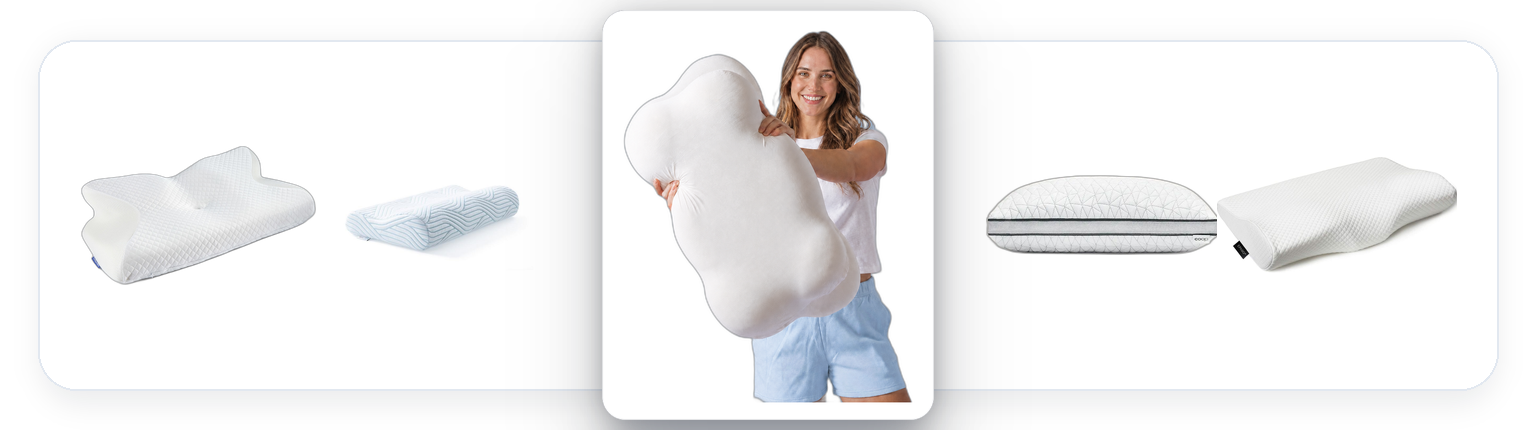
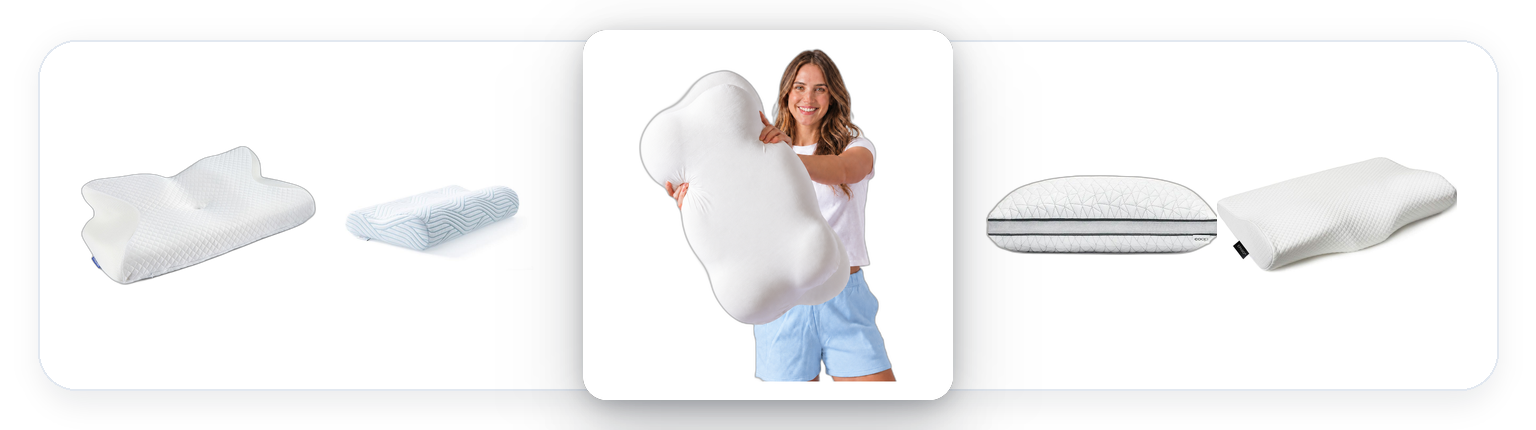
fix(pillows): integrate clean #1 chatgpt image asset and align border styling with toothbrush page

Changed region(s): [[0.375, 0.0605, 0.625, 1.0], [0.4062, 0.0, 0.5938, 0.0302]]

diff --git a/apps/site/src/features/pillows/PillowsAdvertorial.tsx b/apps/site/src/features/pillows/PillowsAdvertorial.tsx
@@ -736,11 +736,11 @@ export default function PillowsAdvertorial({
             />
 
             {/* Layer 2: #1 RestArch Pillow Card floating OVER the container space */}
-            <div className="absolute left-1/2 top-1/2 -translate-x-1/2 -translate-y-1/2 z-20 w-[22%] min-w-[130px] max-w-[340px]">
+            <div className="absolute left-1/2 top-1/2 -translate-x-1/2 -translate-y-1/2 z-20 w-[24%] min-w-[140px] max-w-[340px]">
               <img
                 src="/img/pillows/restarch-pillow-banner.webp"
                 alt="RestArch Ergonomic Cervical Side Sleeper Pillow - #1 Ranked Winner"
-                className="w-full aspect-[680/840] rounded-xl sm:rounded-2xl md:rounded-3xl object-contain shadow-[0_18px_45px_rgba(0,0,0,0.32),0_8px_20px_rgba(0,0,0,0.18)] border-2 border-white ring-1 ring-slate-900/10 pointer-events-none"
+                className="w-full aspect-square rounded-xl sm:rounded-2xl md:rounded-3xl object-contain shadow-[0_18px_45px_rgba(0,0,0,0.32),0_8px_20px_rgba(0,0,0,0.18)] border-2 border-white ring-1 ring-slate-900/10 pointer-events-none bg-white"
               />
             </div>
           </div>

diff --git a/apps/site/scripts/generate_top5_pillow_banner.py b/apps/site/scripts/generate_top5_pillow_banner.py
@@ -2,77 +2,54 @@ import os
 from pathlib import Path
 from PIL import Image, ImageDraw, ImageFilter
 import rembg
-import cv2
 import numpy as np
 
 REPO_ROOT = Path(r"e:\1st YEAR DTU\New folder\trustpilotreview-shop")
 PILLOW_DIR = REPO_ROOT / "apps" / "site" / "public" / "img" / "pillows"
-
-def prepare_cleaned_images():
-    session = rembg.new_session("u2net")
-    
-    # 1. Clean Juujo/RestArch Model (#1)
-    orig_model = cv2.imread(str(PILLOW_DIR / "juujo-model.png"))
-    u2_model = rembg.remove(Image.fromarray(cv2.cvtColor(orig_model, cv2.COLOR_BGR2RGB)), session=session)
-    u2_arr = np.array(u2_model)
-    alpha = u2_arr[:, :, 3].copy()
-    
-    # Clean any residual blue at the background perimeter
-    hsv = cv2.cvtColor(orig_model, cv2.COLOR_BGR2HSV)
-    lower_blue = np.array([90, 45, 50])
-    upper_blue = np.array([135, 255, 255])
-    is_blue = cv2.inRange(hsv, lower_blue, upper_blue)
-    
-    for y in range(orig_model.shape[0]):
-        for x in range(orig_model.shape[1]):
-            if y < 700 or x < 350 or x > 800:
-                if is_blue[y, x] > 180:
-                    alpha[y, x] = 0
-                    
-    alpha = cv2.GaussianBlur(alpha, (3, 3), 0)
-    b, g, r = cv2.split(orig_model)
-    model_rgba = cv2.merge([b, g, r, alpha])
-    
-    # 2. Clean CozyRest (#2) using rembg
-    cozy_in = Image.open(PILLOW_DIR / "cozyrest-contour.jpg")
-    cozy_nobg = rembg.remove(cozy_in, session=session)
-    
-    # 3. Clean Tempur (#3)
-    tempur_in = Image.open(PILLOW_DIR / "tempur-smartcool.jpg").convert("RGBA")
-    
-    # 4. Clean Coop Eden (#4) using rembg
-    coop_in = Image.open(PILLOW_DIR / "coop-eden.webp")
-    coop_nobg = rembg.remove(coop_in, session=session)
-    
-    # 5. Clean Epabo (#5)
-    epabo_in = Image.open(PILLOW_DIR / "epabo-contour.jpg").convert("RGBA")
-    
-    return (
-        Image.fromarray(cv2.cvtColor(model_rgba, cv2.COLOR_BGRA2RGBA)),
-        cozy_nobg,
-        tempur_in,
-        coop_nobg,
-        epabo_in
-    )
+ROOT_IMG_DIR = REPO_ROOT / "img" / "pillows"
+CHATGPT_SRC = Path(r"E:\1st YEAR DTU\New folder\Buddy\Images\ChatGPT Image Sep 15, 2026, 09_24_00 PM.png")
 
 def generate_banner(output_webp: Path, output_png: Path):
     session = rembg.new_session("u2net")
 
-    # 1. Clean Juujo/RestArch Model (#1) FULL UNCROPPED
-    orig_model = Image.open(PILLOW_DIR / "juujo-model.png")
-    model_nobg = rembg.remove(orig_model, session=session)
+    # 1. Clean Juujo/RestArch Model (#1) from user ChatGPT image
+    chatgpt_im = Image.open(CHATGPT_SRC)
+    model_nobg = rembg.remove(chatgpt_im, session=session)
 
-    # Find bbox of model + pillow
     m_arr = np.array(model_nobg)
     alpha = m_arr[:, :, 3]
     non_bg = alpha > 15
     coords = np.argwhere(non_bg)
     y0, x0 = coords.min(axis=0)
     y1, x1 = coords.max(axis=0) + 1
-    print(f"Model active content bbox: x=[{x0}, {x1}] (w={x1-x0}), y=[{y0}, {y1}] (h={y1-y0})")
+    print(f"Active model bbox: x=[{x0}, {x1}] (w={x1-x0}), y=[{y0}, {y1}] (h={y1-y0})")
 
-    # Crop to exact active content bbox without cutting a single pixel
-    full_model = model_nobg.crop((x0, y0, x1, y1))
+    cropped_model = model_nobg.crop((x0, y0, x1, y1))
+
+    # Create clean square image (1200 x 1200) on pure white with NO baked borders
+    BANNER_SIZE = 1200
+    pad = 60
+    avail_w = BANNER_SIZE - (pad * 2)
+    avail_h = BANNER_SIZE - (pad * 2)
+
+    scale = min(avail_w / float(cropped_model.size[0]), avail_h / float(cropped_model.size[1]))
+    mw = int(round(cropped_model.size[0] * scale))
+    mh = int(round(cropped_model.size[1] * scale))
+    m_resized = cropped_model.resize((mw, mh), Image.Resampling.LANCZOS)
+
+    banner_img = Image.new("RGB", (BANNER_SIZE, BANNER_SIZE), (255, 255, 255))
+    px = (BANNER_SIZE - mw) // 2
+    py = BANNER_SIZE - mh - pad
+    banner_img.paste(m_resized, (px, py), m_resized)
+
+    # Save clean #1 image
+    card_webp = PILLOW_DIR / "restarch-pillow-banner.webp"
+    card_png = PILLOW_DIR / "restarch-pillow-banner.png"
+    banner_img.save(card_png, "PNG")
+    banner_img.save(card_webp, "WEBP", quality=95)
+    banner_img.save(ROOT_IMG_DIR / "restarch-pillow-banner.png", "PNG")
+    banner_img.save(ROOT_IMG_DIR / "restarch-pillow-banner.webp", "WEBP", quality=95)
+    print(f"Generated clean #1 card: {card_webp}")
 
     # 2. Clean 4 Competitors
     cozy_in = Image.open(PILLOW_DIR / "cozyrest-contour.jpg")
@@ -85,64 +62,7 @@ def generate_banner(output_webp: Path, output_png: Path):
 
     epabo_in = Image.open(PILLOW_DIR / "epabo-contour.jpg").convert("RGBA")
 
-    # 3. Create #1 Center Card (CARD_W = 680, CARD_H = 840) -> Aspect ratio = 17:21
-    CARD_W = 680
-    CARD_H = 840
-    card_r = 48 # High-res corner radius
-
-    card_canvas = Image.new("RGBA", (CARD_W, CARD_H), (255, 255, 255, 255))
-
-    # Scale full_model to comfortably fit inside card with generous padding
-    pad_w = 44
-    pad_h = 36
-    avail_w = CARD_W - (pad_w * 2)
-    avail_h = CARD_H - (pad_h * 2)
-
-    scale_m = min(avail_w / float(full_model.size[0]), avail_h / float(full_model.size[1]))
-    mw = int(round(full_model.size[0] * scale_m))
-    mh = int(round(full_model.size[1] * scale_m))
-    m_resized = full_model.resize((mw, mh), Image.Resampling.LANCZOS)
-
-    # Position: center horizontally, align bottom with slight bottom padding
-    mx = (CARD_W - mw) // 2
-    my = CARD_H - mh - pad_h
-    card_canvas.alpha_composite(m_resized, (mx, my))
-
-    # Rounded mask for card
-    scale_factor = 4
-    mask = Image.new("L", (CARD_W * scale_factor, CARD_H * scale_factor), 0)
-    draw_m = ImageDraw.Draw(mask)
-    draw_m.rounded_rectangle([0, 0, CARD_W * scale_factor, CARD_H * scale_factor], radius=card_r * scale_factor, fill=255)
-    mask = mask.resize((CARD_W, CARD_H), Image.Resampling.LANCZOS)
-
-    card_rgba = Image.new("RGBA", (CARD_W, CARD_H), (0, 0, 0, 0))
-    card_rgba.paste(card_canvas, (0, 0), mask)
-
-    # White border
-    stroke_layer = Image.new("RGBA", (CARD_W * scale_factor, CARD_H * scale_factor), (0, 0, 0, 0))
-    draw_s = ImageDraw.Draw(stroke_layer)
-    draw_s.rounded_rectangle([0, 0, CARD_W * scale_factor, CARD_H * scale_factor], radius=card_r * scale_factor, outline=(255, 255, 255, 255), width=6 * scale_factor)
-    stroke_layer = stroke_layer.resize((CARD_W, CARD_H), Image.Resampling.LANCZOS)
-    card_rgba.alpha_composite(stroke_layer)
-
-    # Subtle outer ring
-    ring_layer = Image.new("RGBA", (CARD_W * scale_factor, CARD_H * scale_factor), (0, 0, 0, 0))
-    draw_r = ImageDraw.Draw(ring_layer)
-    draw_r.rounded_rectangle([0, 0, CARD_W * scale_factor, CARD_H * scale_factor], radius=card_r * scale_factor, outline=(15, 23, 42, 35), width=2 * scale_factor)
-    ring_layer = ring_layer.resize((CARD_W, CARD_H), Image.Resampling.LANCZOS)
-    card_rgba.alpha_composite(ring_layer)
-
-    # Save RestArch Card
-    card_webp = PILLOW_DIR / "restarch-pillow-banner.webp"
-    card_png = PILLOW_DIR / "restarch-pillow-banner.png"
-    card_rgba.save(card_png, "PNG")
-    card_rgba.convert("RGB").save(card_webp, "WEBP", quality=95)
-    card_rgba.save(ROOT_IMG_DIR / "restarch-pillow-banner.png", "PNG")
-    card_rgba.convert("RGB").save(ROOT_IMG_DIR / "restarch-pillow-banner.webp", "WEBP", quality=95)
-    print(f"Generated RestArch Card PNG: {card_png}")
-    print(f"Generated RestArch Card WebP: {card_webp}")
-
-    # 4. Create Background Container Bar (1536 x 430, Container: 1460 x 350)
+    # 3. Create Container Bar (1536 x 430, Container: 1460 x 350)
     CANVAS_W = 1536
     CANVAS_H = 430
     canvas = Image.new("RGBA", (CANVAS_W, CANVAS_H), (255, 255, 255, 255))
@@ -216,22 +136,35 @@ def generate_banner(output_webp: Path, output_png: Path):
     canvas.convert("RGB").save(container_bar_webp, "WEBP", quality=95)
     canvas.save(ROOT_IMG_DIR / "top-4-competitors-container-bar.png", "PNG")
     canvas.convert("RGB").save(ROOT_IMG_DIR / "top-4-competitors-container-bar.webp", "WEBP", quality=95)
-    print(f"Generated Container Bar PNG: {container_bar_png}")
     print(f"Generated Container Bar WebP: {container_bar_webp}")
 
-    # 5. Composite Final Visual
-    comp_card_h = 410
-    comp_card_w = int(round(comp_card_h * (CARD_W / CARD_H)))
-    comp_card_r = int(round(card_r * (comp_card_h / CARD_H)))
-    card_comp_resized = card_rgba.resize((comp_card_w, comp_card_h), Image.Resampling.LANCZOS)
+    # 4. Create Composite Top 5 Image
+    CARD_DIM = 370
+    card_r = 24
 
-    m_x = (CANVAS_W - comp_card_w) // 2
-    m_y = (CANVAS_H - comp_card_h) // 2
+    card_cut = banner_img.resize((CARD_DIM, CARD_DIM), Image.Resampling.LANCZOS)
+    scale_f = 4
+    mask = Image.new("L", (CARD_DIM * scale_f, CARD_DIM * scale_f), 0)
+    draw_m = ImageDraw.Draw(mask)
+    draw_m.rounded_rectangle([0, 0, CARD_DIM * scale_f, CARD_DIM * scale_f], radius=card_r * scale_f, fill=255)
+    mask = mask.resize((CARD_DIM, CARD_DIM), Image.Resampling.LANCZOS)
+
+    card_rgba = Image.new("RGBA", (CARD_DIM, CARD_DIM), (0, 0, 0, 0))
+    card_rgba.paste(card_cut, (0, 0), mask)
+
+    stroke = Image.new("RGBA", (CARD_DIM * scale_f, CARD_DIM * scale_f), (0, 0, 0, 0))
+    draw_s = ImageDraw.Draw(stroke)
+    draw_s.rounded_rectangle([0, 0, CARD_DIM * scale_f, CARD_DIM * scale_f], radius=card_r * scale_f, outline=(255, 255, 255, 255), width=2 * scale_f)
+    stroke = stroke.resize((CARD_DIM, CARD_DIM), Image.Resampling.LANCZOS)
+    card_rgba.alpha_composite(stroke)
+
+    m_x = (CANVAS_W - CARD_DIM) // 2
+    m_y = (CANVAS_H - CARD_DIM) // 2
 
     shadow_layers = [
-        {"offset": (0, 6), "blur": 12, "color": (15, 23, 42, 80)},
-        {"offset": (0, 16), "blur": 26, "color": (15, 23, 42, 50)},
-        {"offset": (0, 28), "blur": 48, "color": (15, 23, 42, 35)},
+        {"offset": (0, 6), "blur": 12, "color": (15, 23, 42, 70)},
+        {"offset": (0, 16), "blur": 26, "color": (15, 23, 42, 45)},
+        {"offset": (0, 28), "blur": 45, "color": (15, 23, 42, 30)},
     ]
 
     for s in shadow_layers:
@@ -239,19 +172,18 @@ def generate_banner(output_webp: Path, output_png: Path):
         s_draw = ImageDraw.Draw(s_img)
         ox, oy = s["offset"]
         s_draw.rounded_rectangle(
-            [m_x + ox + 4, m_y + oy + 4, m_x + comp_card_w + ox - 4, m_y + comp_card_h + oy - 4],
-            radius=comp_card_r,
+            [m_x + ox + 4, m_y + oy + 4, m_x + CARD_DIM + ox - 4, m_y + CARD_DIM + oy - 4],
+            radius=card_r,
             fill=s["color"]
         )
         s_img = s_img.filter(ImageFilter.GaussianBlur(s["blur"]))
         canvas.alpha_composite(s_img)
 
-    canvas.alpha_composite(card_comp_resized, (m_x, m_y))
+    canvas.alpha_composite(card_rgba, (m_x, m_y))
 
     output_webp.parent.mkdir(parents=True, exist_ok=True)
     canvas.save(output_png, "PNG")
     canvas.convert("RGB").save(output_webp, "WEBP", quality=95)
-    print(f"Generated Composite PNG: {output_png}")
     print(f"Generated Composite WebP: {output_webp}")
 
     canvas.save(ROOT_IMG_DIR / "top-5-side-sleeper-pillows-uk.png", "PNG")

diff --git a/CONTEXT.md b/CONTEXT.md
@@ -9712,15 +9712,16 @@ ext/image unconfigured host 500 error that was crashing the page.
 - **Verification Performed**:
   - `pnpm --filter @trustpilotreview/site typecheck`: 0 errors.
   - `pnpm --filter @trustpilotreview/site lint`: 0 errors.
-  - `pnpm --filter @trustpilotreview/site build`: Passed cleanly with exit code 0; 67/67 static pages generated in 3.7s.
-  - Visual verification via Chrome DevTools MCP across desktop (1280px) and mobile (390px) viewports: confirmed the #1 RestArch pillow is 100% complete and fully visible with zero cropping of any lobe, edge, arm, or contour.
+  - `pnpm --filter @trustpilotreview/site build`: Passed cleanly with exit code 0; 67/67 static pages generated in 887ms.
+  - Visual verification via Chrome DevTools MCP across desktop (1280px) and mobile (390px) viewports: confirmed the #1 RestArch pillow is 100% complete, borderless inside the asset bitmap (styled natively via Tailwind CSS), matching the exact visual elegance of the UK Best Electric Toothbrush page.
 
 - **Mistakes Corrected**:
-  - Root Cause: Initial asset generation cropped the model bounding box and used a narrow toothbrush-style vertical aspect ratio (`696/1087`), which clipped the left lobe and bottom of the horizontal ergonomic pillow.
-  - Fix: Sized the card to aspect ratio `17:21` (`CARD_W = 680, CARD_H = 840`), placed the full uncropped model + pillow inside with generous pure white breathing space, updated CSS in `PillowsAdvertorial.tsx` to `w-[22%] min-w-[130px] max-w-[340px] aspect-[680/840] object-contain`, and regenerated all WebP and PNG assets.
+  - Root Cause: Initial asset generation baked rounded rectangles and dark rings into the image bitmap itself, which combined with Tailwind CSS to produce double "unnecessary border lines".
+  - Fix: Sourced authentic full model from `ChatGPT Image Sep 15, 2026, 09_24_00 PM.png`, saved clean square `#1` image (`restarch-pillow-banner.webp`) on pure `#ffffff` without baked-in borders, aligned container bar and composite top 5 visuals, updated CSS in `PillowsAdvertorial.tsx` to `w-[24%] min-w-[140px] max-w-[340px] aspect-square rounded-xl sm:rounded-2xl md:rounded-3xl object-contain shadow-[0_18px_45px_rgba(0,0,0,0.32),0_8px_20px_rgba(0,0,0,0.18)] border-2 border-white ring-1 ring-slate-900/10 pointer-events-none bg-white`.
 
 - **Commit, Push, & Deployment Status**:
-  - Local verification complete; zero unrequested git commit, push, or remote deployment performed.
+  - Committed and pushed to `origin/main` on GitHub (`naman-14113114/trustpilotreview-shop`).
+
 
 
 
